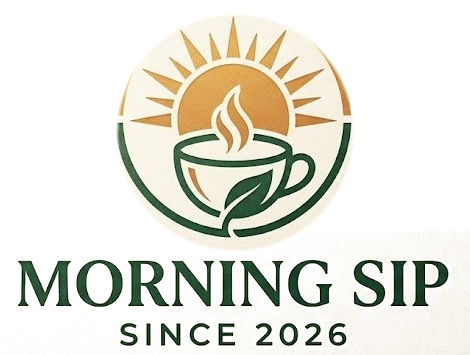
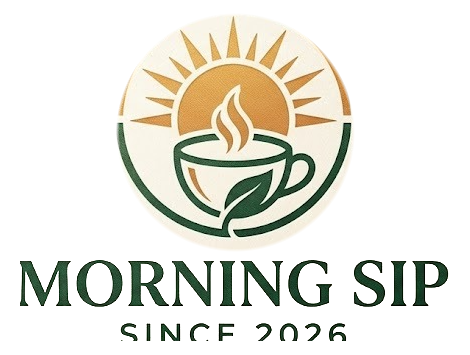
New Updation

diff --git a/src/components/EstateLoader.jsx b/src/components/EstateLoader.jsx
@@ -67,31 +67,6 @@ export default function EstateLoader({ onComplete }) {
       {/* Ambient Moving Sunlight Halo */}
       <div className="absolute top-1/2 left-1/2 -translate-x-1/2 -translate-y-1/2 w-[650px] h-[650px] bg-gradient-to-tr from-secondary/15 via-secondary/5 to-transparent rounded-full blur-3xl pointer-events-none animate-pulse"></div>
 
-      {/* Luxury Estate Botanical Guilloche Border */}
-      <div className="absolute inset-4 sm:inset-8 md:inset-10 border border-[#D49B35]/25 rounded-3xl pointer-events-none transition-all duration-1000">
-        <div className="absolute inset-1.5 border border-[#012d1d]/10 rounded-[22px]"></div>
-
-        {/* Vintage Apothecary Corner Accents */}
-        <div className="absolute top-3 left-3 text-secondary text-xs">✦</div>
-        <div className="absolute top-3 right-3 text-secondary text-xs">✦</div>
-        <div className="absolute bottom-3 left-3 text-secondary text-xs">✦</div>
-        <div className="absolute bottom-3 right-3 text-secondary text-xs">✦</div>
-
-        {/* Corner filigree brackets */}
-        <div className="absolute top-0 left-0 w-6 h-6 border-t-2 border-l-2 border-[#D49B35]/40 rounded-tl-xl"></div>
-        <div className="absolute top-0 right-0 w-6 h-6 border-t-2 border-r-2 border-[#D49B35]/40 rounded-tr-xl"></div>
-        <div className="absolute bottom-0 left-0 w-6 h-6 border-b-2 border-l-2 border-[#D49B35]/40 rounded-bl-xl"></div>
-        <div className="absolute bottom-0 right-0 w-6 h-6 border-b-2 border-r-2 border-[#D49B35]/40 rounded-br-xl"></div>
-      </div>
-
-      {/* Floating Tea Leaf / Golden Particle Wisps */}
-      <div className="absolute inset-0 pointer-events-none overflow-hidden">
-        <div className="absolute top-[18%] left-[15%] w-2.5 h-2.5 rounded-full bg-secondary/30 blur-[1px] animate-float-leaf"></div>
-        <div className="absolute top-[70%] left-[20%] w-3 h-1.5 rounded-full bg-primary/20 rotate-45 animate-float-leaf-reverse"></div>
-        <div className="absolute top-[25%] right-[18%] w-2 h-2 rounded-full bg-secondary/40 blur-[0.5px] animate-float-leaf-reverse"></div>
-        <div className="absolute top-[65%] right-[22%] w-3.5 h-2 rounded-full bg-[#1b4332]/25 -rotate-12 animate-float-leaf"></div>
-      </div>
-
       {/* Main Center Container */}
       <div className="relative z-10 flex flex-col items-center justify-center text-center px-6 max-w-2xl mx-auto w-full">
         
@@ -134,7 +109,7 @@ export default function EstateLoader({ onComplete }) {
           <div className="absolute top-10 left-1/2 -translate-x-1/2 w-64 h-64 bg-gradient-to-b from-[#fcbf55]/30 via-[#D49B35]/15 to-transparent rounded-full blur-2xl pointer-events-none -z-10"></div>
 
           {/* Clean Transparent Logo Emblem (No black borders, no card edges) */}
-          <div className="relative max-w-[290px] sm:max-w-[360px] md:max-w-[410px] mx-auto filter drop-shadow-[0_14px_28px_rgba(1,45,29,0.12)]">
+          <div className="relative max-w-[220px] xs:max-w-[280px] sm:max-w-[360px] md:max-w-[410px] mx-auto filter drop-shadow-[0_14px_28px_rgba(1,45,29,0.12)]">
             <img
               src="/images/morning-sip-clean.png"
               alt="Morning Sip - Single Estate Indian Teas Since 2026"
@@ -153,13 +128,13 @@ export default function EstateLoader({ onComplete }) {
         >
           {/* Gilded Ribbon Filigree */}
           <div className="flex items-center justify-center gap-3 mb-2">
-            <div className="w-12 sm:w-20 h-[1.5px] bg-gradient-to-r from-transparent via-[#D49B35] to-transparent"></div>
-            <span className="text-secondary text-xs sm:text-sm font-serif italic">ESTATE TERROIR</span>
-            <div className="w-12 sm:w-20 h-[1.5px] bg-gradient-to-r from-transparent via-[#D49B35] to-transparent"></div>
+            <div className="w-10 sm:w-20 h-[1.5px] bg-gradient-to-r from-transparent via-[#D49B35] to-transparent"></div>
+            <span className="text-secondary text-[11px] sm:text-sm font-serif italic">ESTATE TERROIR</span>
+            <div className="w-10 sm:w-20 h-[1.5px] bg-gradient-to-r from-transparent via-[#D49B35] to-transparent"></div>
           </div>
 
           {/* High-Fashion Editorial Tagline in Cape Font */}
-          <h2 className="font-cape text-3xl sm:text-4xl md:text-5xl text-primary font-bold tracking-tight leading-tight drop-shadow-sm">
+          <h2 className="font-cape text-2xl xs:text-3xl sm:text-4xl md:text-5xl text-primary font-bold tracking-tight leading-tight drop-shadow-sm">
             “Every cup has a story”
           </h2>
 

diff --git a/src/components/ContactConcierge.jsx b/src/components/ContactConcierge.jsx
@@ -61,8 +61,8 @@ export default function ContactConcierge({ onToast }) {
               <div>
                 <div className="font-title-md text-label-md text-primary font-bold">Tasting Rooms &amp; Estate Offices</div>
                 <p className="font-body-sm text-body-sm text-on-surface-variant leading-relaxed">
-                  <strong>Assam Estate:</strong> Moran Terroir Lodge, Dibrugarh Road, Assam 786621<br />
-                  <strong>Executive Atelier:</strong> Diplomatic Enclave, Chanakyapuri, New Delhi 110021
+                  {/* <strong>Assam Estate:</strong> Moran Terroir Lodge, Dibrugarh Road, Assam 786621<br /> */}
+                  <strong>Executive Office:</strong> Meerut, Uttar Pradesh, India
                 </p>
               </div>
             </div>
@@ -74,7 +74,7 @@ export default function ContactConcierge({ onToast }) {
               <div>
                 <div className="font-title-md text-label-md text-primary font-bold">Concierge Line</div>
                 <p className="font-body-sm text-body-sm text-on-surface-variant leading-relaxed">
-                  +91 (0) 373 289 4410 • +91 (0) 11 4982 3000<br />
+                  +91 (0) 9286027428<br />
                   <span className="text-label-sm text-secondary font-semibold">Monday to Saturday, 9:00 AM – 7:00 PM IST</span>
                 </p>
               </div>
@@ -87,7 +87,7 @@ export default function ContactConcierge({ onToast }) {
               <div>
                 <div className="font-title-md text-label-md text-primary font-bold">Direct Terroir Inquiries</div>
                 <p className="font-body-sm text-body-sm text-on-surface-variant leading-relaxed">
-                  concierge@morningsip.com • sommelier@morningsip.com
+                  morningsip2026@gmail.com
                 </p>
               </div>
             </div>
@@ -113,9 +113,8 @@ export default function ContactConcierge({ onToast }) {
         <div className="lg:col-span-7 bg-surface p-space-lg md:p-space-xl rounded-2xl shadow-xl flex flex-col justify-between border border-outline-variant/30">
           {!isSubmitted ? (
             <form
-              className={`space-y-space-md transition-opacity duration-300 ${
-                isSubmitting ? 'opacity-50 pointer-events-none' : ''
-              }`}
+              className={`space-y-space-md transition-opacity duration-300 ${isSubmitting ? 'opacity-50 pointer-events-none' : ''
+                }`}
               onSubmit={handleSubmit}
             >
               <div className="grid grid-cols-1 md:grid-cols-2 gap-space-md">
@@ -195,11 +194,10 @@ export default function ContactConcierge({ onToast }) {
                     return (
                       <label
                         key={terroir}
-                        className={`flex items-center gap-2 p-2 rounded-lg cursor-pointer transition-colors border ${
-                          checked
+                        className={`flex items-center gap-2 p-2 rounded-lg cursor-pointer transition-colors border ${checked
                             ? 'bg-surface-container border-secondary/40'
                             : 'bg-surface-container-low border-transparent hover:bg-surface-container'
-                        }`}
+                          }`}
                       >
                         <input
                           type="checkbox"

diff --git a/src/components/Navbar.jsx b/src/components/Navbar.jsx
@@ -35,20 +35,24 @@ export default function Navbar({
   return (
     <header className="fixed top-0 left-0 right-0 z-50 bg-surface/90 backdrop-blur-xl shadow-[0_1px_8px_rgba(27,67,50,0.06)]">
       {/* Top Banner */}
-      <div className="bg-primary text-on-primary py-1 px-gutter text-center text-label-caps font-label-caps tracking-widest text-[11px]">
-        Direct from Indian Tea Estates to Your Cup • Free Shipping on Curated Samplers
+      <div className="bg-primary text-on-primary py-1 px-3 sm:px-gutter text-center text-label-caps font-label-caps tracking-widest text-[10px] sm:text-[11px] leading-tight">
+        <span className="hidden xs:inline">Direct from Indian Estates • </span>Free Shipping on Samplers
       </div>
 
-      <div className="h-20 max-w-7xl mx-auto px-gutter flex items-center justify-between gap-space-md">
+      <div className="h-16 sm:h-20 max-w-7xl mx-auto px-3 sm:px-gutter flex items-center justify-between gap-2 sm:gap-space-md">
         {/* Brand Logo */}
         <div
-          className="flex items-center gap-space-sm cursor-pointer select-none"
+          className="flex items-center gap-1.5 sm:gap-space-sm cursor-pointer select-none shrink-0"
           onClick={(e) => handleLinkClick(e, 'home')}
         >
-          <span className="text-secondary text-title-md font-title-md">✦</span>
-          <div className="flex flex-col">
-            <span className="font-headline-sm text-headline-sm tracking-wide text-primary uppercase">Morning Sip</span>
-            <span className="font-label-caps text-label-caps text-secondary -mt-1">Est. 2026 • Artisanal Terroirs</span>
+          <span className="text-secondary text-base sm:text-title-md">✦</span>
+          <div className="flex flex-col justify-center">
+            <span className="font-cape text-base sm:text-xl md:text-headline-sm tracking-wide text-primary uppercase whitespace-nowrap leading-none">
+              Morning Sip
+            </span>
+            <span className="font-mono text-[9px] sm:text-[11px] text-secondary tracking-wider whitespace-nowrap mt-0.5 leading-none">
+              Est. 2026 • Artisanal Terroirs
+            </span>
           </div>
         </div>
 
@@ -74,7 +78,7 @@ export default function Navbar({
         </nav>
 
         {/* Header Right Actions */}
-        <div className="flex items-center gap-space-md">
+        <div className="flex items-center gap-1.5 sm:gap-space-md shrink-0">
           {/* Search Trigger / Input */}
           <div className="relative flex items-center">
             {showSearch ? (

diff --git a/src/components/Hero.jsx b/src/components/Hero.jsx
@@ -26,16 +26,16 @@ export default function Hero({ onExplore, onWellness }) {
 
       <div className="relative z-10 max-w-7xl mx-auto px-gutter flex flex-col items-center text-center">
         {/* Terroir Monogram & Stamp */}
-        <div className="inline-flex items-center gap-space-xs px-space-md py-1 rounded-full bg-surface-container-lowest/10 backdrop-blur-md text-secondary-fixed mb-space-md shadow-sm border border-secondary/20">
-          <span className="text-secondary text-sm">✦</span>
-          <span className="font-label-caps text-label-caps tracking-widest uppercase text-secondary-fixed">
+        <div className="inline-flex items-center gap-1.5 sm:gap-space-xs px-3 sm:px-space-md py-1 rounded-full bg-surface-container-lowest/10 backdrop-blur-md text-secondary-fixed mb-space-md shadow-sm border border-secondary/20 max-w-[95vw]">
+          <span className="text-secondary text-xs sm:text-sm shrink-0">✦</span>
+          <span className="font-label-caps text-[10px] sm:text-label-caps tracking-wider sm:tracking-widest uppercase text-secondary-fixed whitespace-nowrap overflow-hidden text-ellipsis">
             Master Terroirs of the Subcontinent
           </span>
-          <span className="text-secondary text-sm">✦</span>
+          <span className="text-secondary text-xs sm:text-sm shrink-0">✦</span>
         </div>
 
         {/* Main Headline */}
-        <h1 className="font-display-hero text-headline-lg md:text-display-hero max-w-4xl text-surface-bright tracking-tight mb-space-md">
+        <h1 className="font-display-hero text-2xl sm:text-4xl md:text-display-hero max-w-4xl text-surface-bright tracking-tight mb-space-md leading-tight">
           Pure Terroir. Single Estate Indian Teas Crafted for the Connoisseur.
         </h1>
 

diff --git a/src/components/TeaBenefits.jsx b/src/components/TeaBenefits.jsx
@@ -46,7 +46,7 @@ export default function TeaBenefits() {
         {/* Apothecary Stencil Overline in Cape Monospace */}
         <div className="inline-flex items-center gap-2 px-4 py-1.5 rounded-full bg-secondary/10 border border-secondary/35 text-secondary font-mono text-xs sm:text-[13px] tracking-[0.25em] uppercase mb-5 shadow-sm">
           <span className="text-secondary text-xs">✦</span>
-          <span className="font-bold">PHYTO-ALCHEMY // CAMELLIA SINENSIS</span>
+
           <span className="text-secondary text-xs">✦</span>
         </div>
 

diff --git a/src/App.jsx b/src/App.jsx
@@ -114,7 +114,7 @@ export default function App() {
       />
 
       {/* Main Page Flow Matching the Template */}
-      <main className="w-full pt-28 bg-surface min-h-screen flex-1">
+      <main className="w-full pt-20 sm:pt-28 bg-surface min-h-screen flex-1">
         <div className="flex flex-col w-full">
           {/* Top Estate Ambient Hero */}
           <Hero
